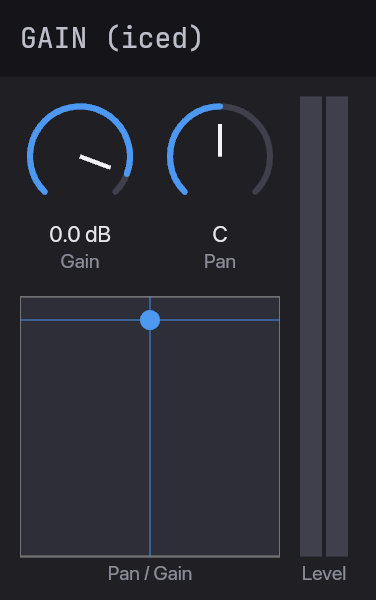
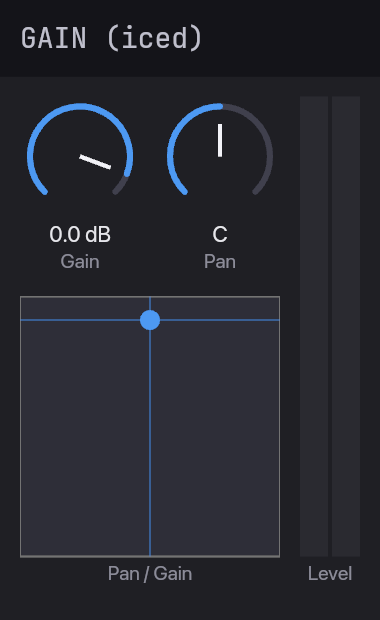
gain gui example tweaks

diff --git a/crates/truce-egui/src/widgets/meter.rs b/crates/truce-egui/src/widgets/meter.rs
@@ -9,6 +9,13 @@ use crate::ParamState;
 /// `meter_ids` are the meter IDs to display (one bar per ID). The meter
 /// is display-only (no interaction). `height` sets the bar height in
 /// pixels. Colors change based on level: blue normally, red when clipping.
+/// Default meter width in pixels.
+const METER_W: f32 = 30.0;
+const BAR_GAP: f32 = 2.0;
+const BAR_PAD: f32 = 2.0;
+const LABEL_H: f32 = 14.0;
+const TRACK_BG: egui::Color32 = egui::Color32::from_rgb(42, 42, 48);
+
 pub fn level_meter(
     ui: &mut egui::Ui,
     state: &ParamState,
@@ -17,53 +24,40 @@ pub fn level_meter(
     height: f32,
 ) -> egui::Response {
     let meter_ids: Vec<u32> = meter_ids.iter().map(|id| (*id).into()).collect();
-    let bar_count = meter_ids.len().max(1) as f32;
-    let bar_width = 8.0;
-    let spacing = 4.0;
-    let padding = 8.0;
-    let label_h = 14.0;
+    let channels = meter_ids.len().max(1);
     let bar_h = height;
+    let total_h = bar_h + LABEL_H;
 
-    let total_w = bar_count * bar_width + (bar_count - 1.0) * spacing + padding * 2.0;
-    let total_h = bar_h + label_h + padding;
-
-    let desired = egui::vec2(total_w, total_h);
+    let desired = egui::vec2(METER_W, total_h);
     let (rect, response) = ui.allocate_exact_size(desired, egui::Sense::hover());
 
     if ui.is_rect_visible(rect) {
         let painter = ui.painter_at(rect);
 
-        // Background
-        painter.rect_filled(
-            rect,
-            4.0,
-            ui.visuals().extreme_bg_color,
-        );
-
-        let bars_w = bar_count * bar_width + (bar_count - 1.0) * spacing;
-        let start_x = rect.center().x - bars_w / 2.0;
-        let bar_top = rect.top() + padding / 2.0;
+        let total_gap = BAR_GAP * (channels as f32 - 1.0).max(0.0);
+        let bar_w = ((METER_W - BAR_PAD * 2.0 - total_gap) / channels as f32).max(4.0);
+        let start_x = rect.left() + BAR_PAD;
+        let bar_top = rect.top();
         let bar_bottom = bar_top + bar_h;
 
         for (i, &id) in meter_ids.iter().enumerate() {
             let raw = state.meter(id);
             let display = meter_display(raw);
-            let x = start_x + i as f32 * (bar_width + spacing);
-
-            let bar_rect = egui::Rect::from_min_size(
-                egui::pos2(x, bar_top),
-                egui::vec2(bar_width, bar_h),
-            );
+            let x = start_x + i as f32 * (bar_w + BAR_GAP);
 
             // Track background
-            painter.rect_filled(bar_rect, 2.0, egui::Color32::from_gray(35));
+            let bar_rect = egui::Rect::from_min_size(
+                egui::pos2(x, bar_top),
+                egui::vec2(bar_w, bar_h),
+            );
+            painter.rect_filled(bar_rect, 2.0, TRACK_BG);
 
-            // Level bar (blue fill, red when clipping)
+            // Level fill
             if display > 0.001 {
                 let level_h = bar_h * display;
                 let level_rect = egui::Rect::from_min_max(
                     egui::pos2(x, bar_bottom - level_h),
-                    egui::pos2(x + bar_width, bar_bottom),
+                    egui::pos2(x + bar_w, bar_bottom),
                 );
                 let color = if display > 0.95 {
                     crate::theme::METER_CLIP

diff --git a/examples/gain-egui/src/lib.rs b/examples/gain-egui/src/lib.rs
@@ -3,8 +3,8 @@ use truce_egui::{EguiEditor, ParamState};
 use truce_egui::theme::{HEADER_BG, HEADER_TEXT};
 use truce_egui::widgets::{param_knob, param_xy_pad, level_meter};
 
-const WINDOW_W: u32 = 225;
-const WINDOW_H: u32 = 300;
+const WINDOW_W: u32 = 190;
+const WINDOW_H: u32 = 310;
 
 // --- Parameters ---
 
@@ -101,22 +101,24 @@ fn gain_ui(ctx: &egui::Context, state: &ParamState) {
                 );
             });
         });
-    egui::CentralPanel::default().show(ctx, |ui| {
+    egui::CentralPanel::default()
+        .frame(egui::Frame::central_panel(&ctx.style()).inner_margin(10.0))
+        .show(ctx, |ui| {
+        ui.spacing_mut().item_spacing = egui::vec2(10.0, 10.0);
         let content_h = ui.available_height();
         ui.horizontal(|ui| {
+            ui.spacing_mut().item_spacing = egui::vec2(10.0, 10.0);
             ui.vertical(|ui| {
+                ui.spacing_mut().item_spacing = egui::vec2(10.0, 10.0);
                 ui.horizontal(|ui| {
+                    ui.spacing_mut().item_spacing = egui::vec2(10.0, 0.0);
                     param_knob(ui, state, P::Gain, "Gain");
-                    ui.add_space(16.0);
                     param_knob(ui, state, P::Pan, "Pan");
                 });
-                ui.add_space(8.0);
-                ui.horizontal(|ui| {
-                    param_xy_pad(ui, state, P::Pan, P::Gain, "Pan / Gain", 140.0, 140.0);
-                });
+                let xy_h = content_h - 100.0 - 14.0; // 90 knobs + 10 spacing + 14 label
+                param_xy_pad(ui, state, P::Pan, P::Gain, "Pan / Gain", 130.0, xy_h);
             });
-            ui.add_space(16.0);
-            level_meter(ui, state, &[P::MeterLeft, P::MeterRight], "Level", content_h - 35.0);
+            level_meter(ui, state, &[P::MeterLeft, P::MeterRight], "Level", content_h - 14.0);
         });
     });
 }

diff --git a/examples/gain-slint/src/lib.rs b/examples/gain-slint/src/lib.rs
@@ -77,7 +77,7 @@ impl PluginLogic for GainSlint {
     }
 
     fn custom_editor(&self) -> Option<Box<dyn truce_core::editor::Editor>> {
-        Some(Box::new(SlintEditor::new((222, 280), |state: ParamState| {
+        Some(Box::new(SlintEditor::new((190, 310), |state: ParamState| {
             let ui = GainUi::new().unwrap();
 
             // UI → host
@@ -132,7 +132,7 @@ mod tests {
     fn gui_snapshot() {
         truce_slint::snapshot::assert_snapshot(
             "screenshots", "gain_slint_default",
-            222, 280, 2.0, 0,
+            190, 310, 2.0, 0,
             |state| {
                 let ui = GainUi::new().unwrap();
                 Box::new(move |state: &truce_slint::ParamState| {

diff --git a/examples/gain-iced/src/lib.rs b/examples/gain-iced/src/lib.rs
@@ -7,8 +7,8 @@ const JETBRAINS_MONO: Font = Font {
     family: iced::font::Family::Name("JetBrains Mono"),
     ..Font::DEFAULT
 };
-const WINDOW_W: u32 = 188;
-const WINDOW_H: u32 = 300;
+const WINDOW_W: u32 = 190;
+const WINDOW_H: u32 = 310;
 
 use truce::prelude::*;
 use truce_iced::{
@@ -106,7 +106,7 @@ impl IcedPlugin<GainParams> for GainUi {
             .push(Into::<Element<'a, Message<GainMsg>>>::into(
                 meter(&[P::MeterLeft, P::MeterRight], params)
                     .label("Level")
-                    .size(24.0, 230.0),
+                    .size(30.0, 230.0),
             ))
             .spacing(gap)
             .padding(pad)

diff --git a/crates/truce-iced/src/widgets/meter.rs b/crates/truce-iced/src/widgets/meter.rs
@@ -115,7 +115,7 @@ impl<M: Clone + Debug + 'static> canvas::Program<Message<M>> for MeterProgram {
                 Point::new(x, 0.0),
                 Size::new(bar_w, self.meter_height),
             );
-            frame.fill(&bg, theme::KNOB_TRACK);
+            frame.fill(&bg, iced::Color::from_rgb(0.165, 0.165, 0.188));
 
             // Fill (blue, red when clipping)
             if fill_h > 0.0 {
